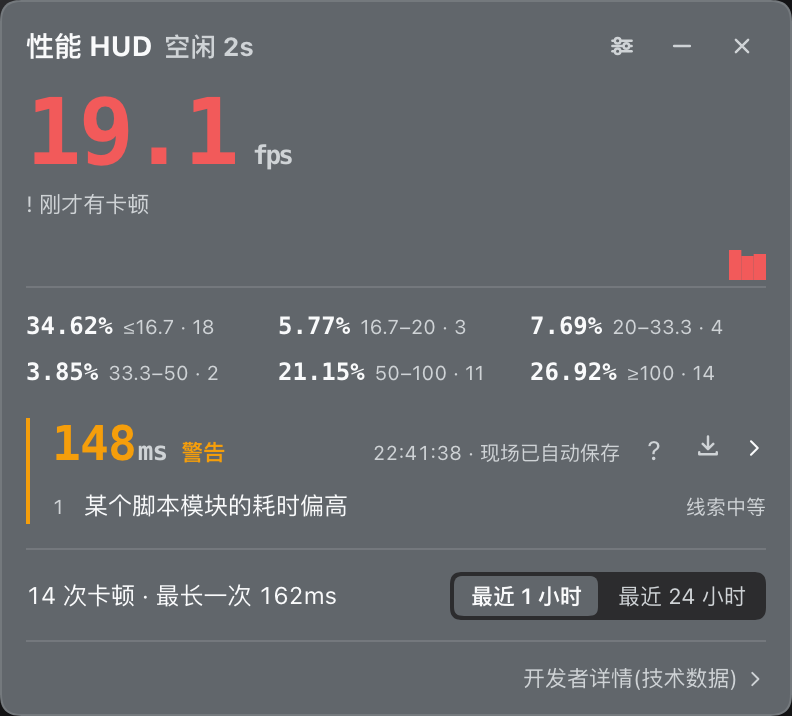
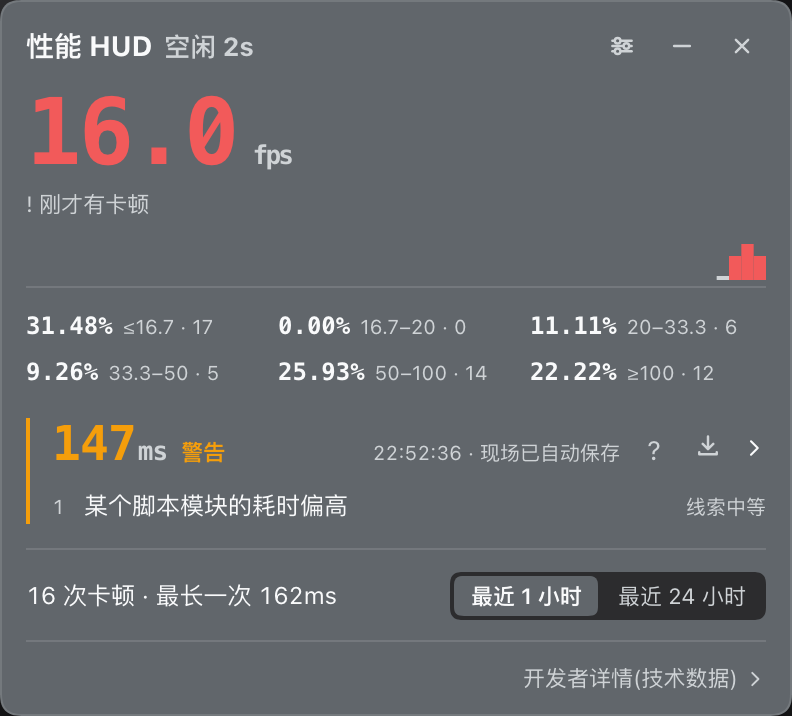
style(panel): 开发者详情概览改三格读数,药丸数字等宽
- 「概览 · 近 60 秒」眉标撤掉:帧 / 长任务 / 命中变成三格数字(第一格按档位上色),
  归属那行退成 11px 的说明行
- statCell 提到模块级,主界面 / 设置 / 开发者详情共用同一套尺寸
- 药丸里的帧数与检测次数改等宽数字(同一行数字不跳宽)

diff --git a/client.ui.js b/client.ui.js
@@ -212,6 +212,12 @@ window.__ModuleLoader__.load({
 			download: [['path', { d: 'M8 2.5v7M5 6.8L8 9.8l3-3M3 11.5v1.2h10v-1.2' }]],
 			chev: [['path', { d: 'M6 3.5l4.5 4.5L6 12.5' }]],
 		};
+		/** 一格读数:大数字 + 小标签。主界面 / 设置 / 开发者详情共用同一套尺寸。 */
+		function statCell(value, label, first) {
+			return h('div', { style: { ...S.statCell, ...(first ? S.statCellFirst : null) } },
+				h('b', { style: S.statValue }, value),
+				h('span', { style: S.statLabel }, label));
+		}
 		/** 快捷键那一格:mac 用 ⌘⇧U,其余平台用 Ctrl+Shift+U(与 client.js 注册的那个组合一致)。 */
 		function shortcutKeyText() {
 			const ua = typeof navigator === 'undefined' ? '' : navigator.userAgent;
@@ -423,9 +429,6 @@ window.__ModuleLoader__.load({
 			const segItem = (label, active, onClick, title) => h('button', {
 				type: 'button', style: { ...S.segItem, ...(active ? S.segOn : null) }, title, onClick,
 			}, label);
-			const statCell = (value, label, first) => h('div', { style: { ...S.statCell, ...(first ? S.statCellFirst : null) } },
-				h('b', { style: S.statValue }, value),
-				h('span', { style: S.statLabel }, label));
 			return [
 				// ① 记录模式:一个两格分段控件。说明句(modeHintShort)进悬停。
 				h('div', { style: S.setRow, title: t('modeHint'), 'aria-label': t('settingsMode') },
@@ -1293,11 +1296,11 @@ window.__ModuleLoader__.load({
 						h('span', { style: S.brand }, t('title')),
 						h('span', { style: { ...S.label, color: sceneChip().color } }, sceneChip().text),
 						h('span', { style: { ...S.num, flex: '0 0 auto', marginLeft: 'auto', color: levelFrame(state.fps, state.frameWorst) } }, `${state.fps.toFixed(0)} fps`),
-						h('span', { style: S.label }, `${t('frameWorst')} ${state.frameWorst.toFixed(0)}ms`),
-						worst === null ? null : h('span', { style: S.label }, `LT ${worst.ms.toFixed(0)}ms`),
+						h('span', { style: { ...S.label, fontVariantNumeric: 'tabular-nums' } }, `${t('frameWorst')} ${state.frameWorst.toFixed(0)}ms`),
+						worst === null ? null : h('span', { style: { ...S.label, fontVariantNumeric: 'tabular-nums' } }, `LT ${worst.ms.toFixed(0)}ms`),
 						// 窄屏只让这一格(明细本来就在悬停与设置页里):实测整条读数要 ~425px,
 						// 393px 视口把它丢掉之后其余读数才不挤成"生… 空闲 2s 12 fps…"。
-						pillTally.detected === 0 || compact === true ? null : h('span', { style: S.label, title: tallyTitle(TALLY_MINUTES * TALLY_BUCKET_MS) }, `${t('watchDetected')} ${pillTally.detected}${t('times')}`),
+						pillTally.detected === 0 || compact === true ? null : h('span', { style: { ...S.label, fontVariantNumeric: 'tabular-nums' }, title: tallyTitle(TALLY_MINUTES * TALLY_BUCKET_MS) }, `${t('watchDetected')} ${pillTally.detected}${t('times')}`),
 						h('button', { type: 'button', className: 'picon', style: S.iconBtnSmall, title: t('expand'), 'aria-label': t('expand'), onClick: toggle }, panelIcon('plus')),
 						h('button', { type: 'button', className: 'picon', style: S.iconBtnSmall, title: t('turnOff'), 'aria-label': t('turnOff'), onClick: () => setEnabled(false) }, panelIcon('close'))));
 			}
@@ -1307,9 +1310,13 @@ window.__ModuleLoader__.load({
 				// ── 常显 1:当前状况(卡不卡 + 谁的锅)──
 				// 块式而不是 flex 行:这一行长文本换行在右对齐下会参差得像段落(实测被吐槽)。
 				// 标题里带「近 60 秒」:帧 / 长任务 / 命中三个数都是这个窗口的口径,不写出来只能猜。
-				h('div', { style: S.block, title: overviewTitle() },
-					h('div', { style: S.blockLabel }, `${t('overview')} · ${t('scope60s')}`),
-					h('div', { style: { ...S.blockValue, color: levelFrame(state.fps, state.frameWorst) } }, `${overviewLine1()}\n${overviewLine2()}`)),
+				h('div', { style: S.statRow, title: overviewTitle(), 'aria-label': `${t('overview')} · ${t('scope60s')}` },
+					h('div', { style: { ...S.statCell, ...S.statCellFirst } },
+						h('b', { style: { ...S.statValue, color: levelFrame(state.fps, state.frameWorst) } }, `${state.frameWorst.toFixed(0)}ms`),
+						h('span', { style: S.statLabel }, t('overviewFrame'))),
+					statCell(worst === null ? '—' : `${worst.ms.toFixed(0)}ms`, 'LT', false),
+					statCell(`${state.ltBlamed}/${state.ltTotal}`, t('hit'), false)),
+				h('div', { style: S.metaLine }, overviewLine2()),
 
 				// ── 常显 2:事故诊断入口(守夜留下的事故;严重度用**文字 + token 颜色**两样给)──
 				// 这是"事故 → 帧 → 证据 → 来源/包"那条链的起点:三个按钮都是真动作(进历史事故上下文 /
